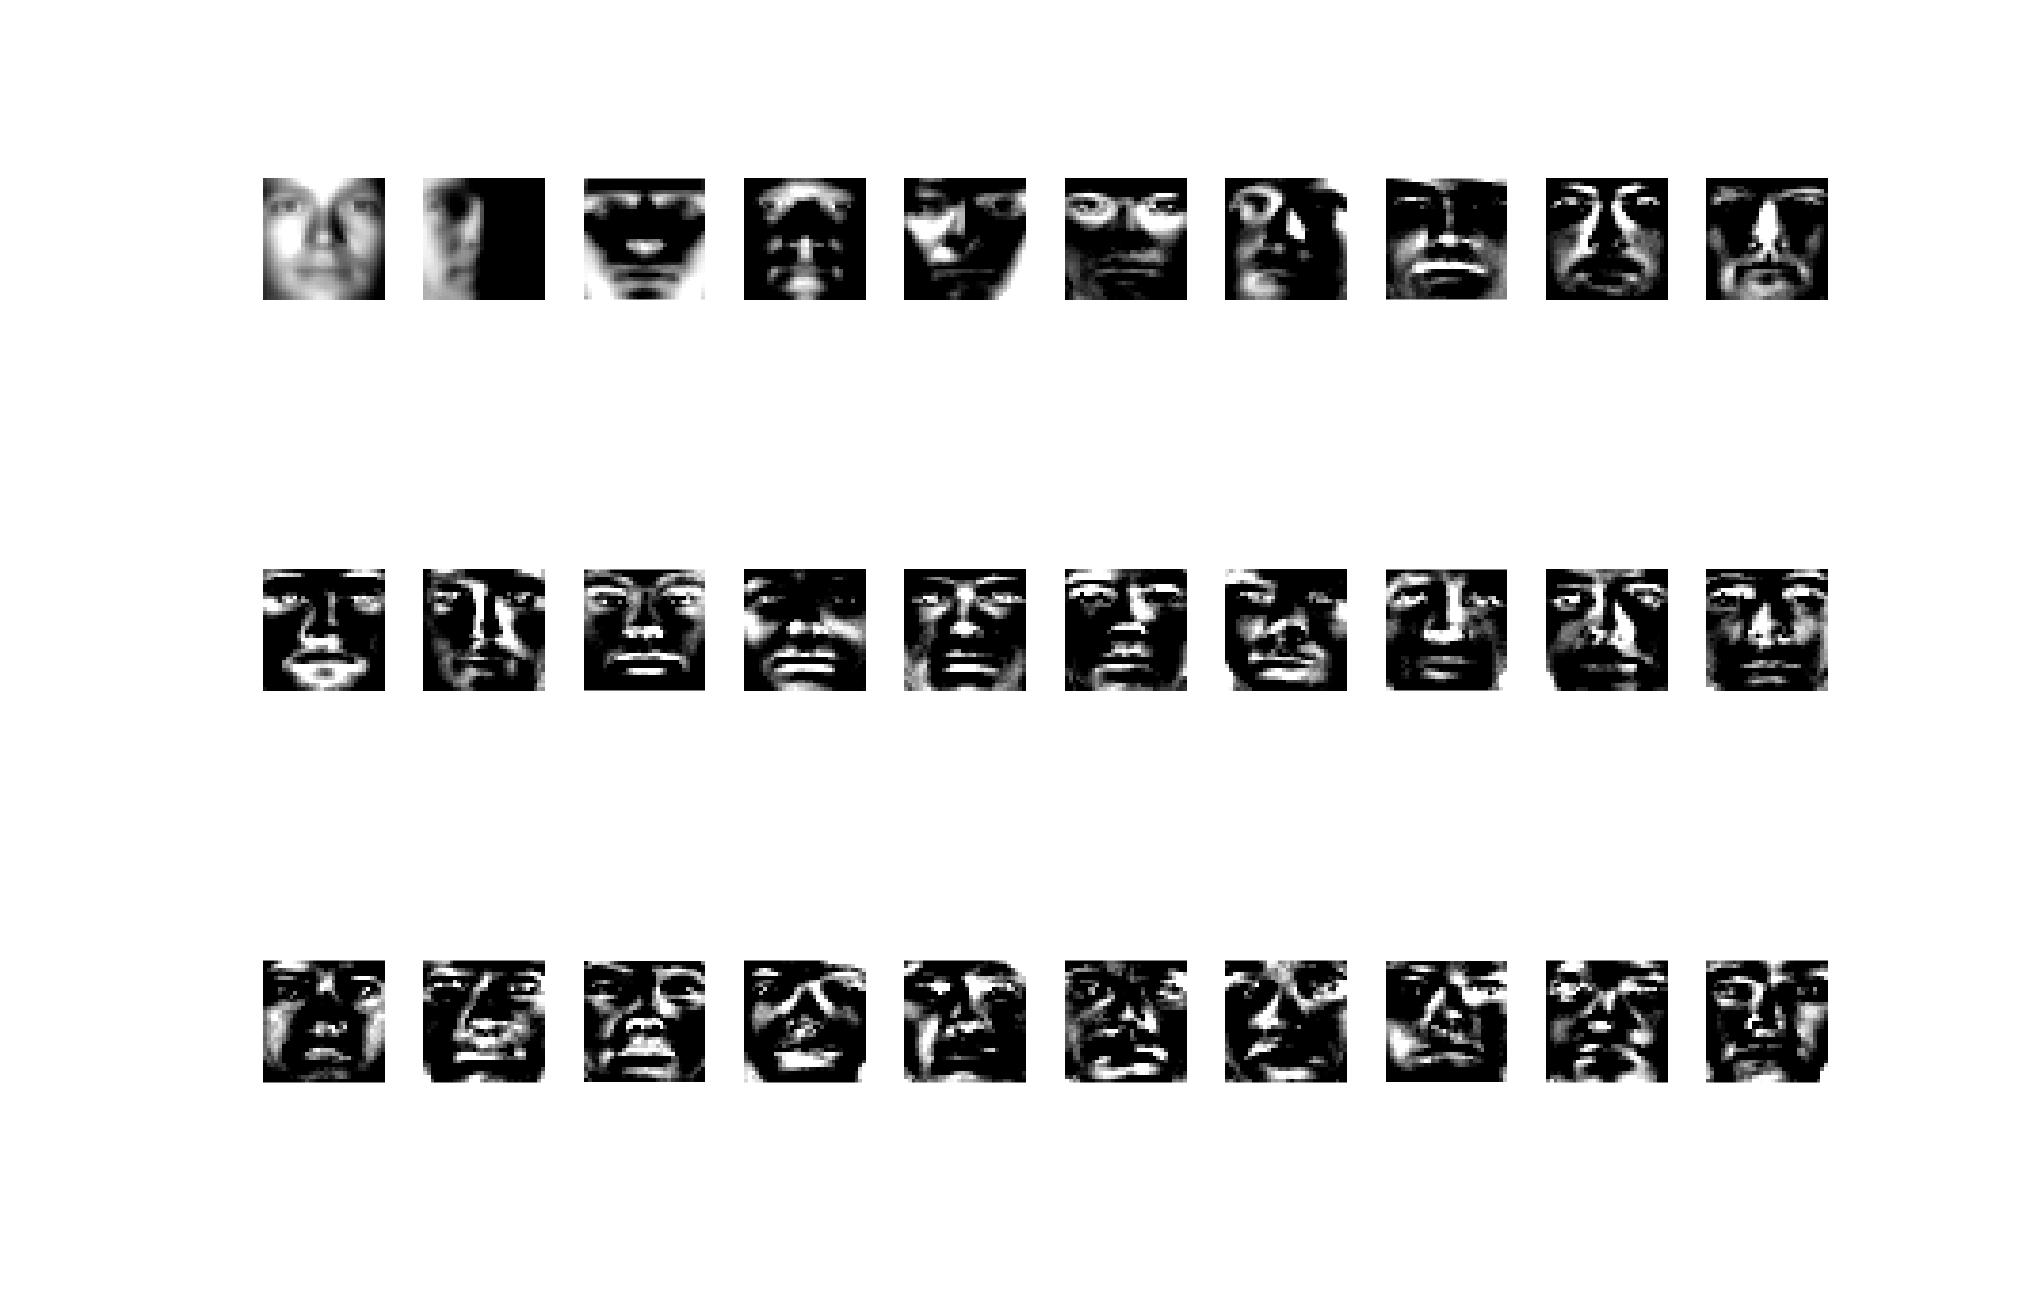
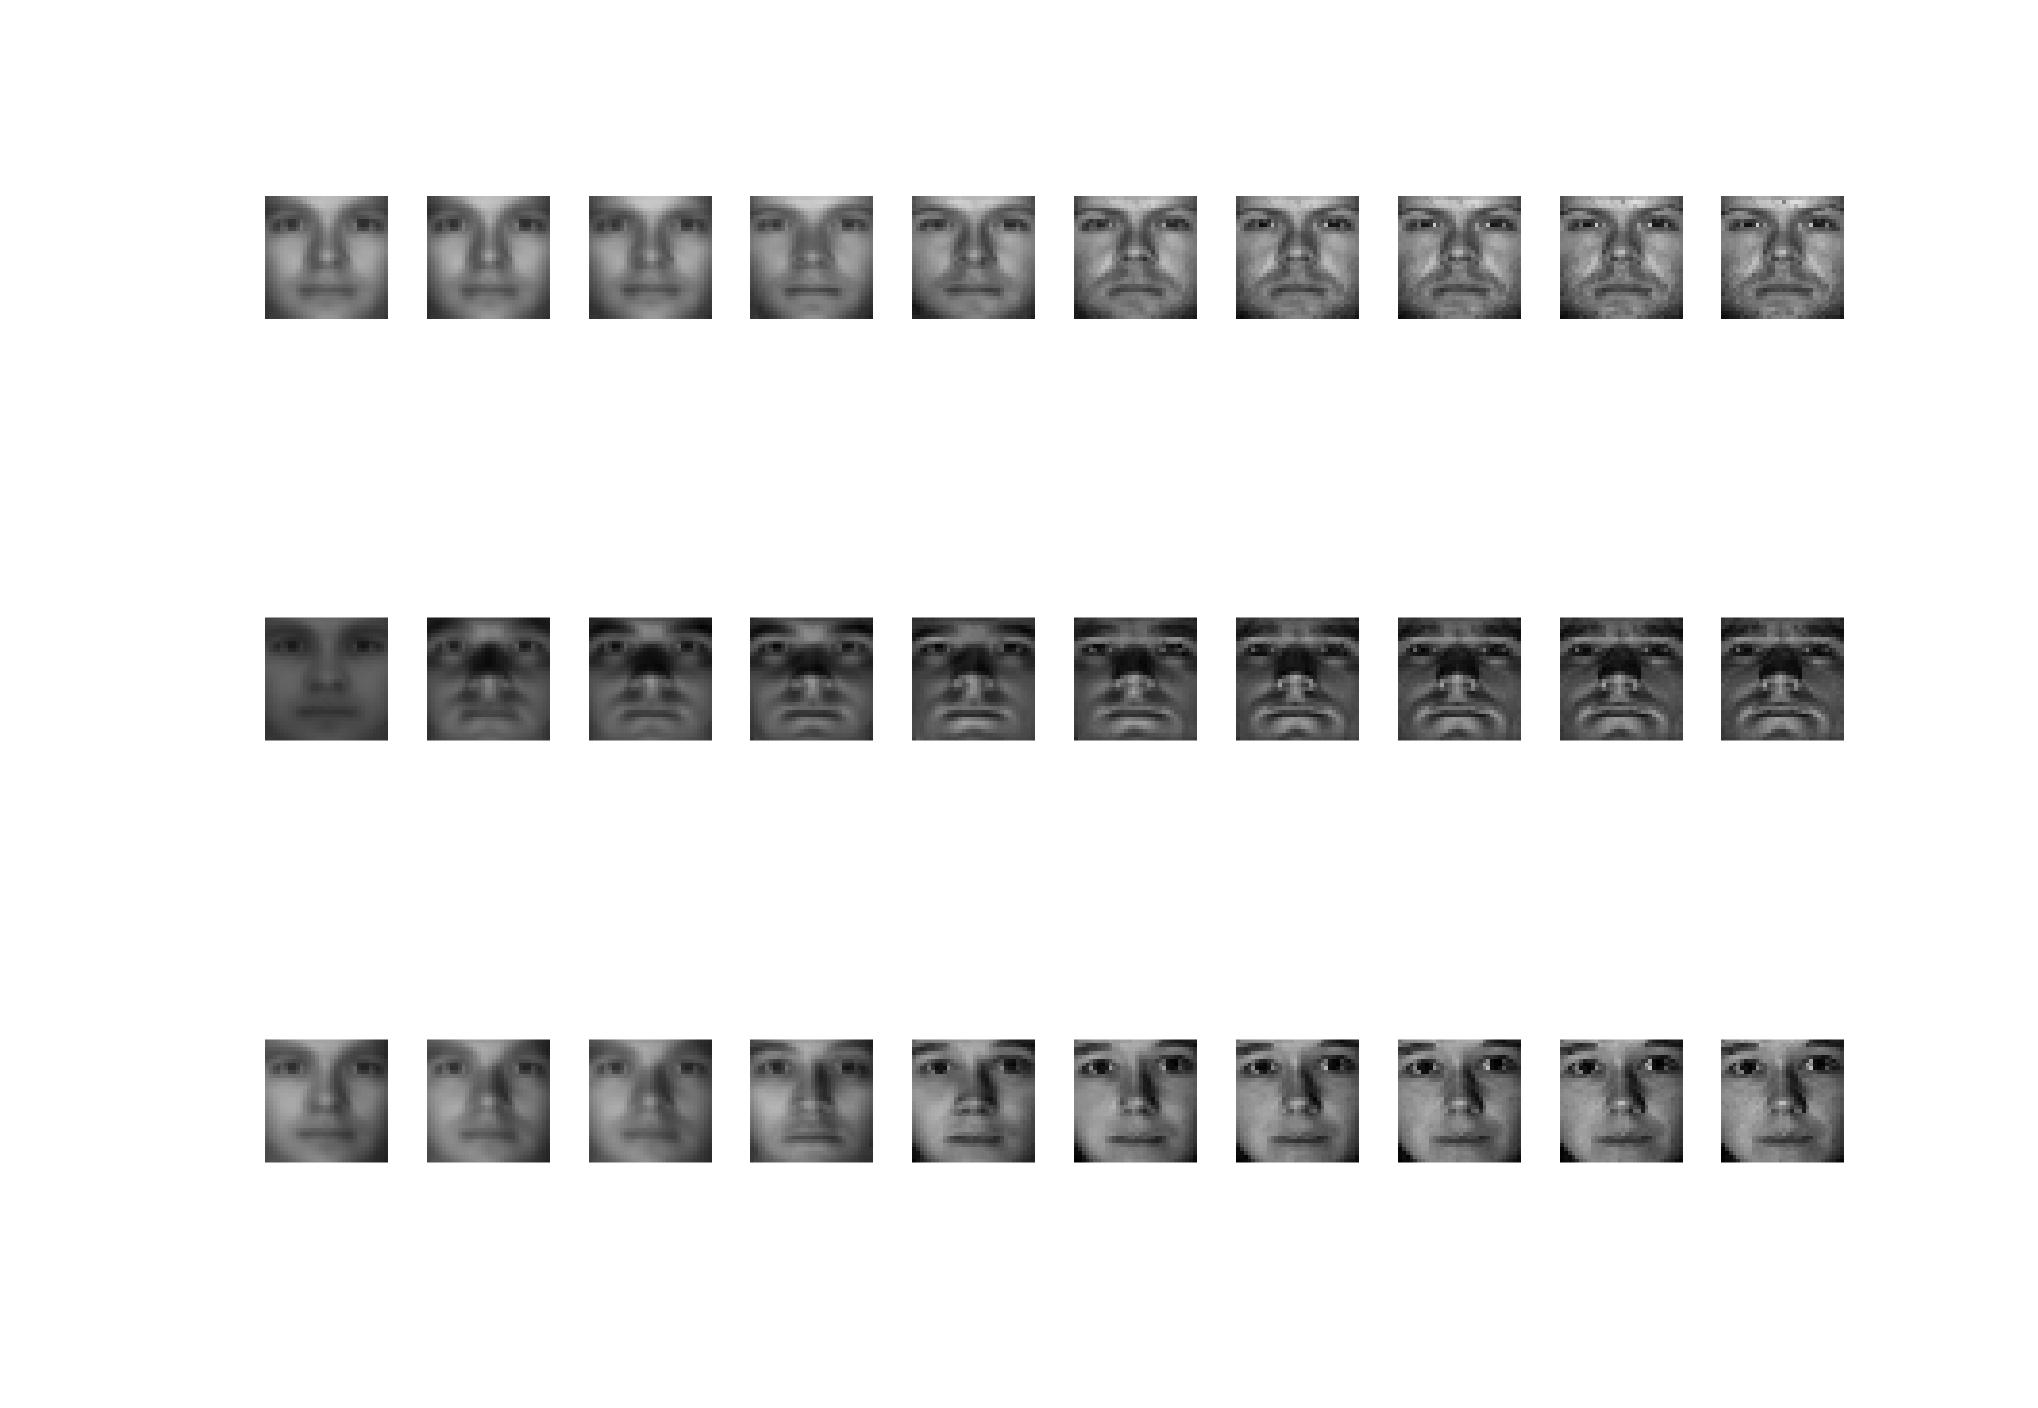
Revised 3.9

Changed region(s): [[0.1248, 0.4288, 0.9045, 0.5513], [0.1248, 0.1225, 0.9045, 0.245], [0.1248, 0.7351, 0.9045, 0.827]]

diff --git a/PS3/p3_9.m b/PS3/p3_9.m
@@ -77,7 +77,7 @@ end
 figure(3)
 for i = 1:size(Y,2)
     subplot(3,10,i)
-    imshow(U_eigenfaces(:,:,i)*20);
+    imshow(Y_reshape(:,:,i) / 255);
 end
 
 %(e)--------------------------------------------------------------------
